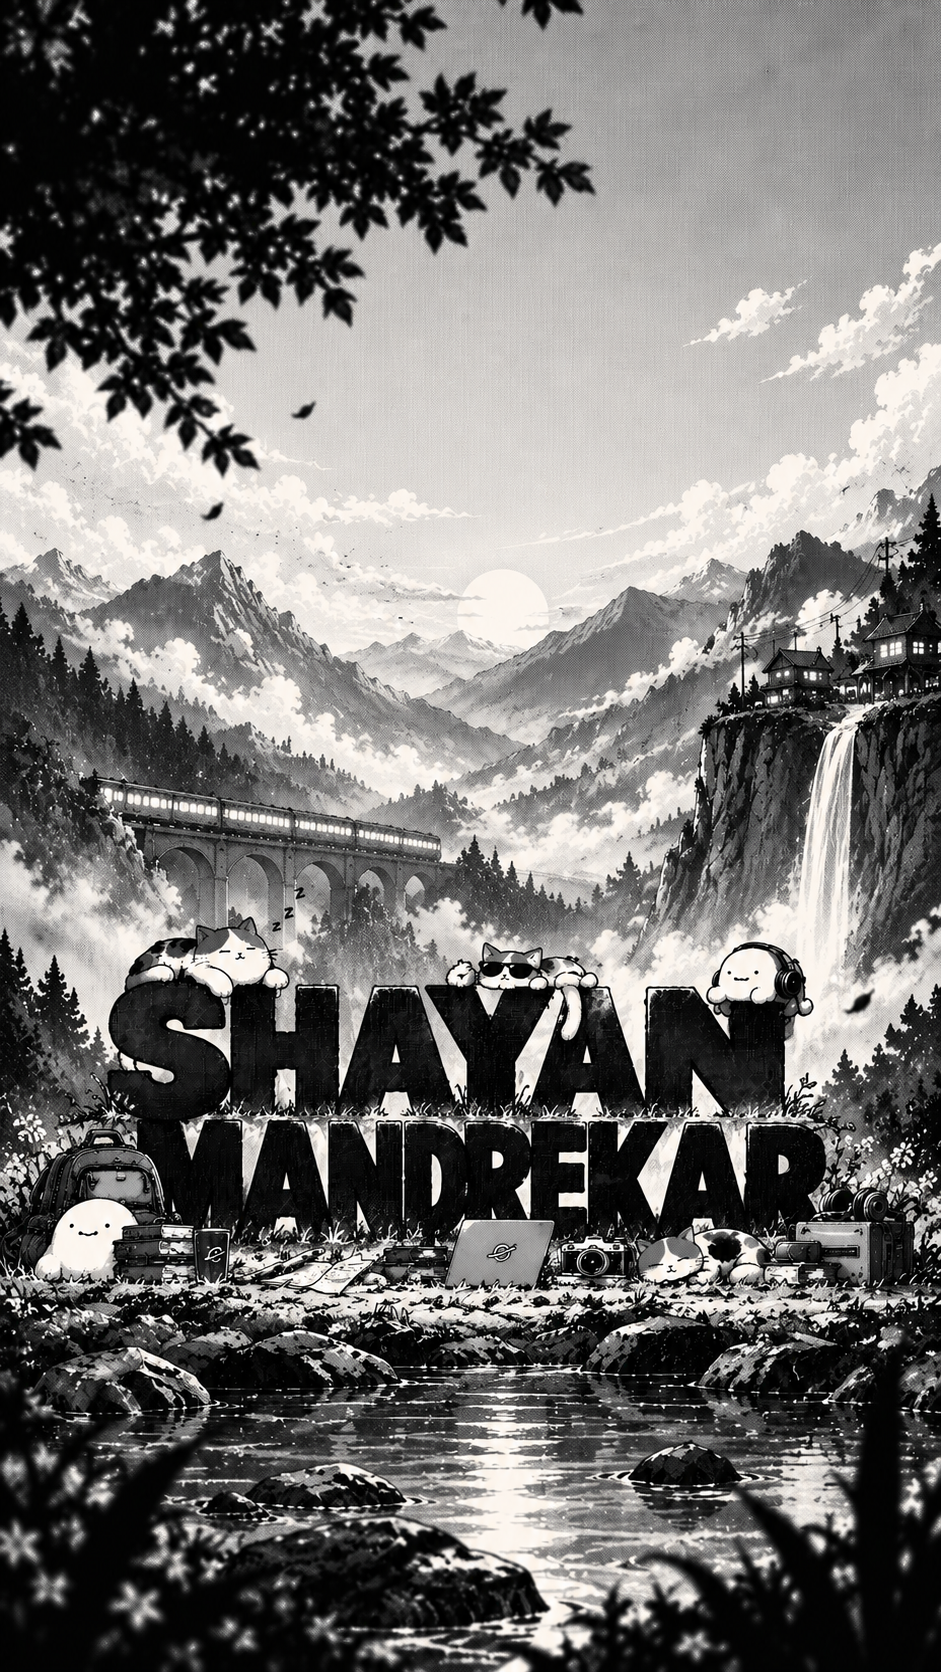
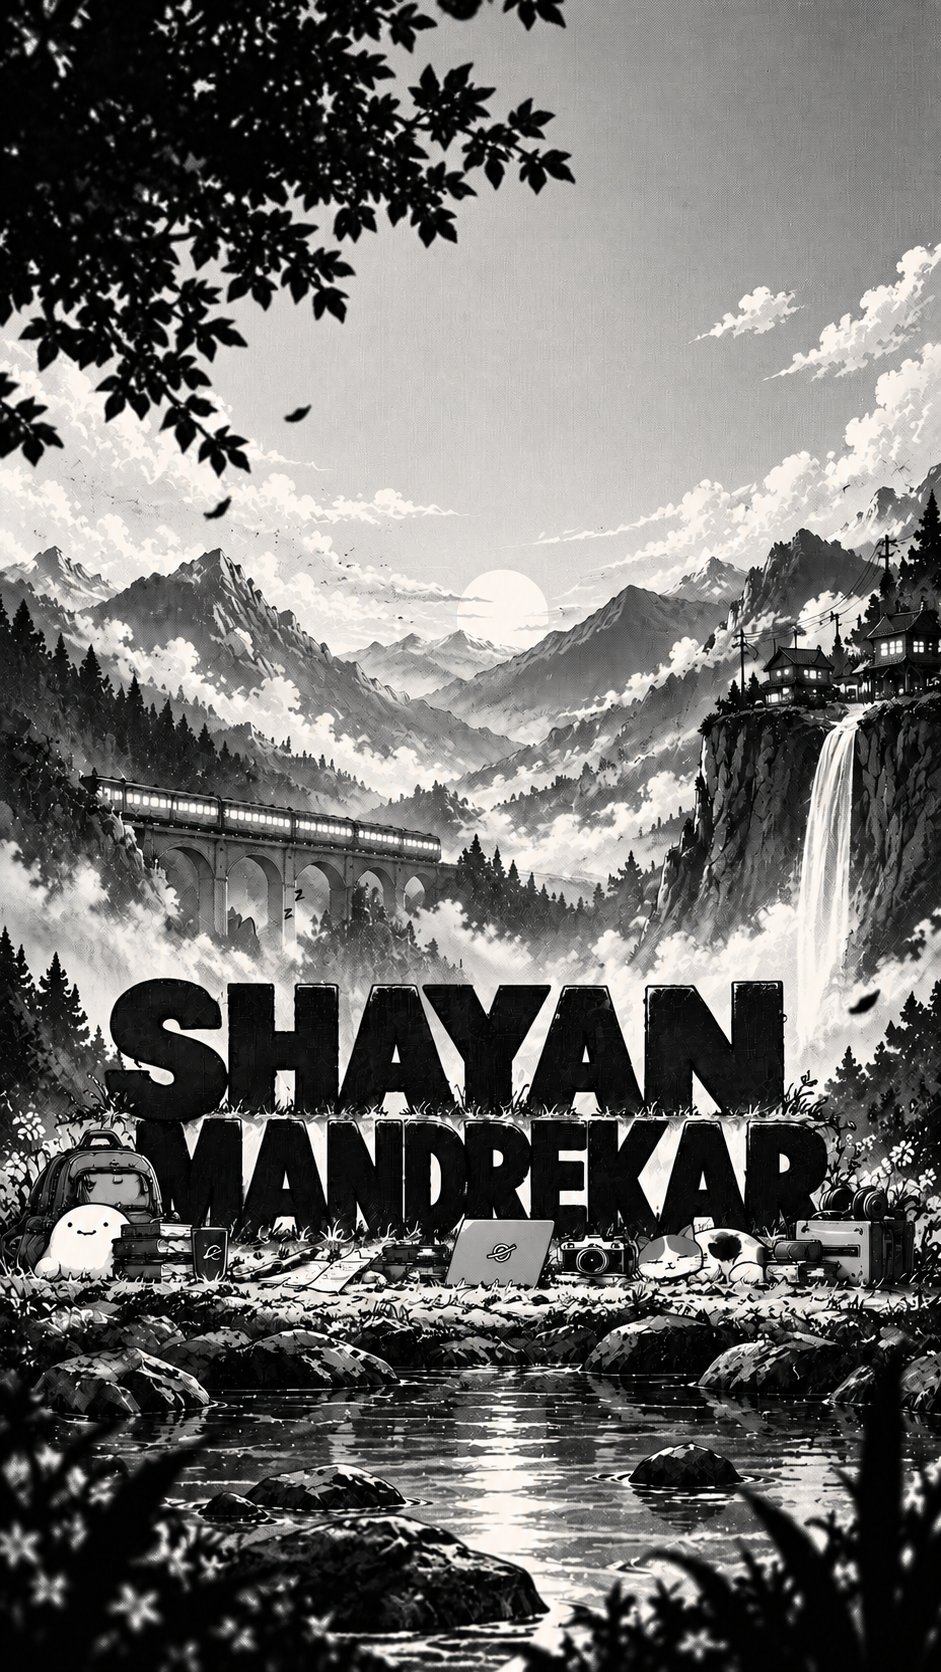
new wallpaper

diff --git a/src/styles.css b/src/styles.css
@@ -1237,7 +1237,7 @@ main#top[data-theme="light"] .project-modal .modal-repo-link { background: #1919
 .hero-animal:focus-visible { outline: 1px dashed rgba(242,240,233,.85); outline-offset: 3px; }
 .animal-sleepy-cat { left: 30%; top: 37%; width: clamp(125px, 15vw, 235px); aspect-ratio: 1.7; }
 .animal-sunglasses-cat { left: 45%; top: 41%; width: clamp(105px, 12vw, 180px); aspect-ratio: 1.7; }
-.animal-headphone-blob { left: 59.5%; top: 29%; width: clamp(90px, 10vw, 150px); aspect-ratio: 1.15; transform: scale(0.7); }
+.animal-headphone-blob { left: 65.5%; top: 29%; width: clamp(90px, 10vw, 150px); aspect-ratio: 1.15; transform: scale(0.7); }
 .animal-waving-monster { left: 19%; top: 71%; width: clamp(95px, 10vw, 150px); aspect-ratio: 1.25; }
 .animal-bottom-cats { left: 74%; top: 73%; width: clamp(125px, 15vw, 225px); aspect-ratio: 1.8; }
 .hero-animal-greeting {
